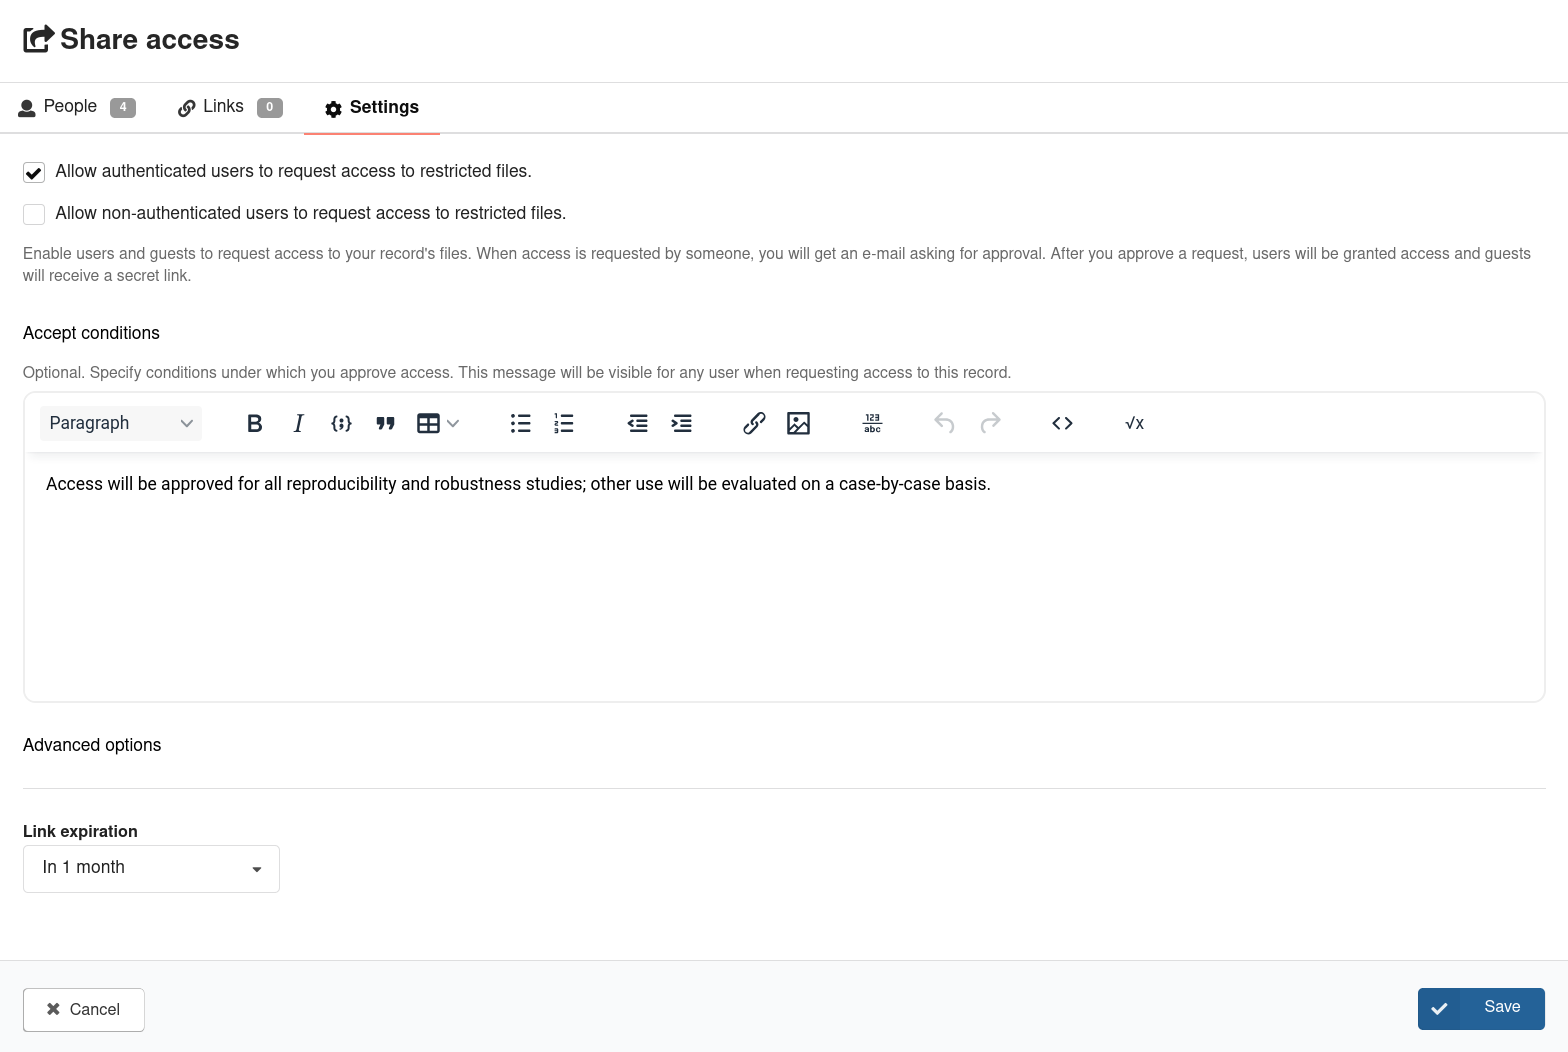
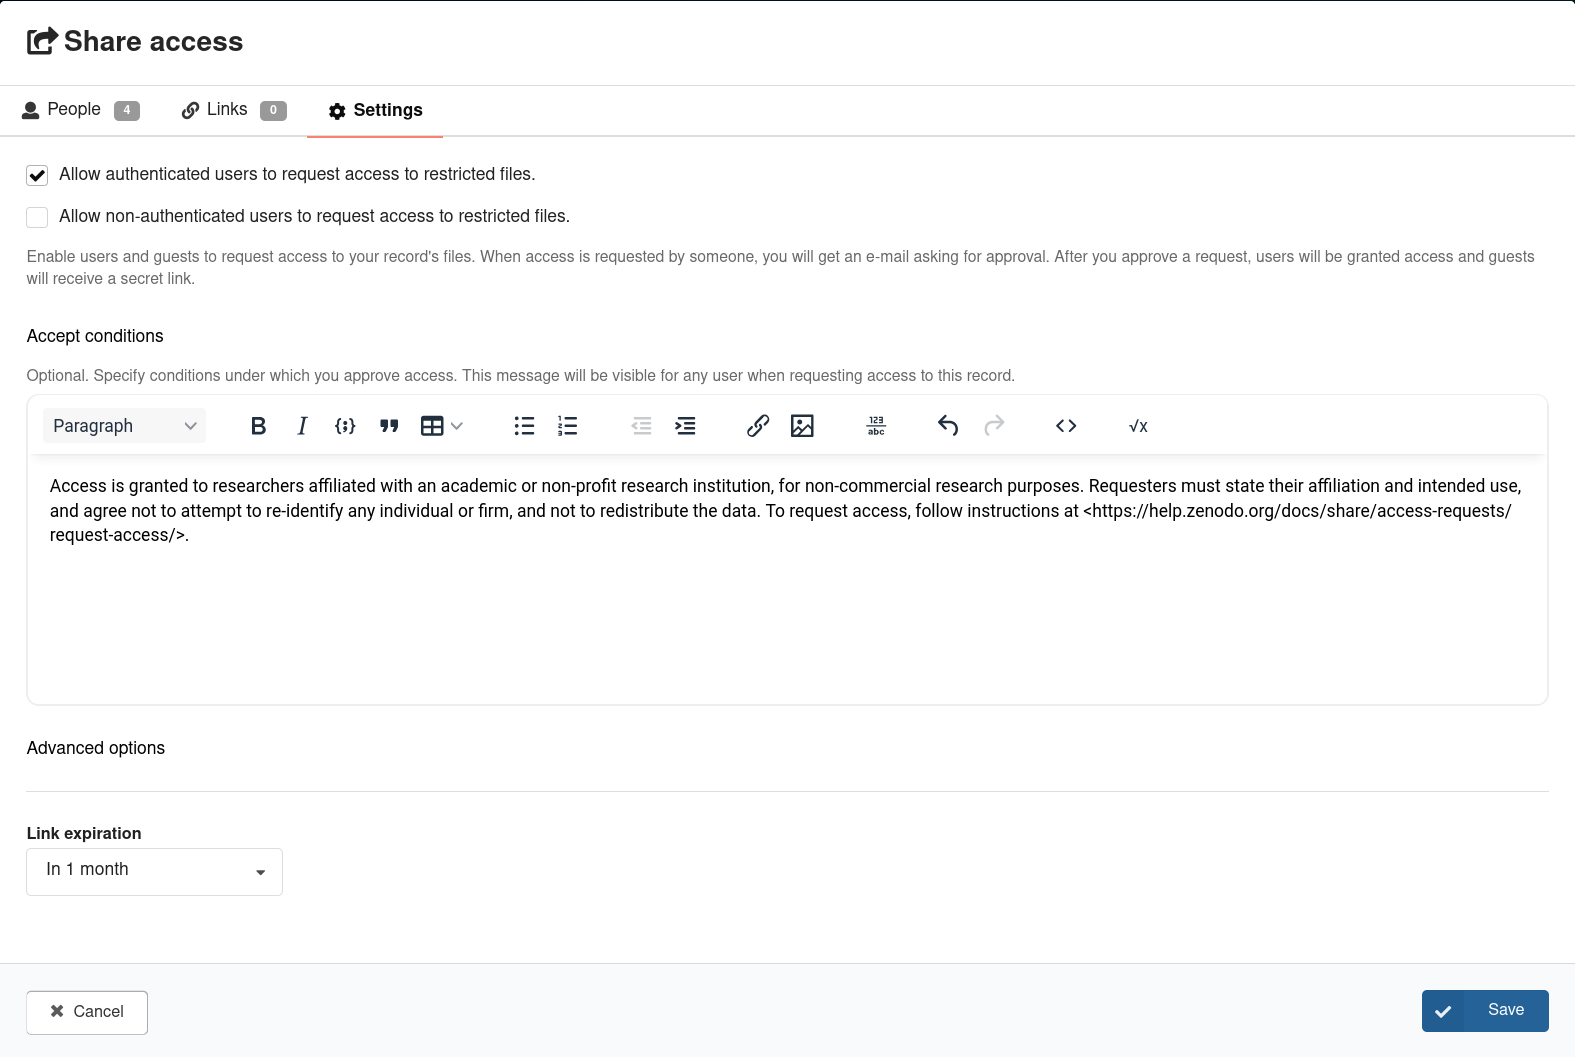
Reword Zenodo share-settings step and use Settings-tab screenshot
Replace the People-tab image with the updated access-request settings
screenshot (now showing the example conditions), drop the duplicate
reference and the unused zenodo-share-settings.png.

Claude-Session: https://claude.ai/code/session_01TUXxp5ohnZkxpwWgg9ZKrp

diff --git a/_posts/2026-11-11-zenodo-restricted-deposit.md b/_posts/2026-11-11-zenodo-restricted-deposit.md
@@ -99,9 +99,9 @@ You may choose to use an embargo, if the sensitivity declines over time. At the 
 
 ### Enable access requests
 
-Choose "Save Draft". The record will then be created (but not yet published). You can now select the record's "Share" menu. Open the "Settings" tab. 
+Choose "Save Draft". The record will then be created (but not yet published), and a "Share" button becomes available. Click on it: the "Share access" dialog opens on the "People" tab (we will come back to it below). Switch to the "Settings" tab.
 
-![Zenodo share menu settings](/images/zenodo-share-settings.png)
+![Zenodo share access settings](/images/zenodo-access-requests.png)
 
 Choose the relevant options, and fill out the "Accept conditions". These will be presented to the user who asks for access.
 
@@ -112,8 +112,6 @@ Choose the relevant options, and fill out the "Accept conditions". These will be
 
 Data editors might reject the supplementary deposit if access is granted at the discretion of the authors, and may require that the deposit be in their community, where they will also see requests.
 
-
-![Zenodo access request settings](/images/zenodo-access-requests.png)
 
 ### Make sure somebody other than you can approve requests
 
